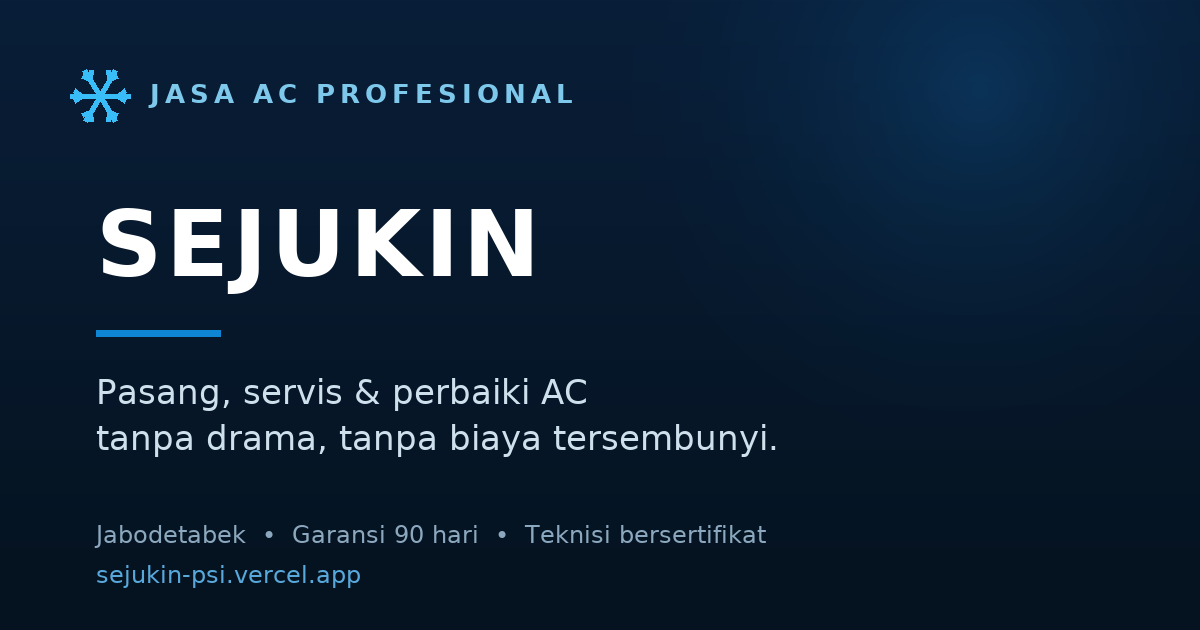
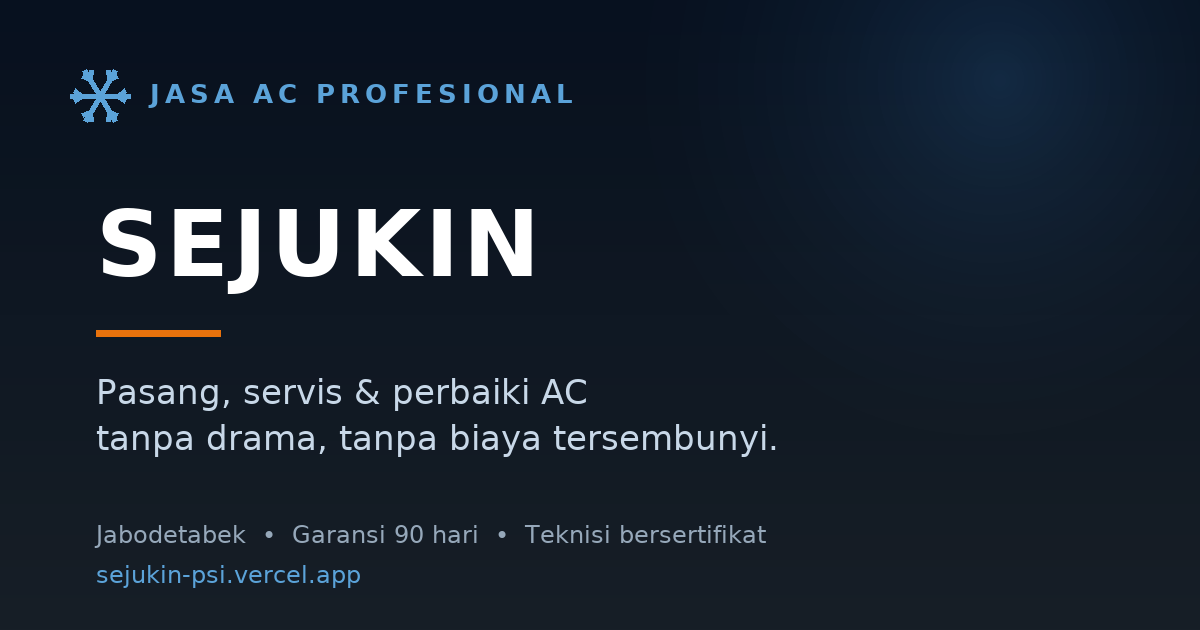
Palet warna mengikuti ARKTIS: clean/arctic/flame/glacier/sky/coal

Changed region(s): [[0.0617, 0.0905, 0.4625, 0.2111], [0.5242, 0.0, 0.8017, 0.1206], [0.0617, 0.5127, 0.185, 0.5429]]

diff --git a/src/index.css b/src/index.css
@@ -1,21 +1,25 @@
 @import "tailwindcss";
 
 @theme {
-  --color-brand-bg: #f0f7fa;
-  --color-brand-primary: #0c2231;
-  --color-brand-navy: #0b2545;
-  --color-brand-ink: #0a1628;
-  --color-brand-secondary: #4a5568;
-  --color-brand-accent: #0e86d4;
-  --color-brand-accent-2: #38bdf8;
-  --color-brand-accent-ink: #0b5c8a;
-  --color-brand-mint: #6dd5c8;
-  --color-hairline: rgb(15 30 45 / 0.1);
+  /* Palet ARKTIS HOME SERVICE */
+  --color-brand-bg: #f8fafb; /* clean   — latar halaman */
+  --color-brand-primary: #0a1628; /* arctic  — teks utama */
+  --color-brand-navy: #1e2832; /* coal    — footer & surface gelap */
+  --color-brand-ink: #0a1628; /* arctic  — headline */
+  --color-brand-secondary: #4a5568; /* slatebody — teks isi */
+  --color-brand-accent: #e8720c; /* flame   — CTA utama */
+  --color-brand-accent-2: #d66408; /* flame gelap — hover & ujung gradient */
+  --color-brand-accent-ink: #2e6da4; /* glacier — eyebrow, tautan */
+  --color-brand-mint: #7bc8c0; /* mint    — aksen dingin */
+  --color-brand-sky: #5ba3d9; /* sky     — aksen dingin terang */
+  --color-brand-ice: #eef6ff; /* ice     — isian lembut */
+  --color-brand-silver: #c8d8e8; /* silver  — garis & pemisah */
+  --color-hairline: rgb(10 22 40 / 0.09);
 
   --font-sans: "Plus Jakarta Sans", system-ui, sans-serif;
   --font-display: "Plus Jakarta Sans", system-ui, sans-serif;
 
-  --shadow-soft: 0 24px 60px -32px rgb(15 30 45 / 0.35);
+  --shadow-soft: 0 24px 60px -32px rgb(10 22 40 / 0.28);
 
   --animate-aurora-slow: aurora-drift 22s ease-in-out infinite alternate;
   --animate-aurora-slower: aurora-drift 26s ease-in-out infinite alternate-reverse;
@@ -70,7 +74,8 @@ body {
 }
 
 ::selection {
-  background: rgb(14 134 212 / 0.2);
+  background: var(--color-brand-sky);
+  color: #fff;
 }
 
 /* ---------- Typography scale ---------- */
@@ -159,7 +164,7 @@ body {
   background-image: linear-gradient(
     to right,
     var(--color-brand-accent-ink),
-    var(--color-brand-accent)
+    var(--color-brand-sky)
   );
 }
 
@@ -192,8 +197,8 @@ body {
   @apply rounded-[28px] p-[1px] shadow-soft;
   background-image: linear-gradient(
     135deg,
-    var(--color-brand-accent),
-    var(--color-brand-accent-2),
+    var(--color-brand-accent-ink),
+    var(--color-brand-sky),
     var(--color-brand-mint)
   );
 }
@@ -273,9 +278,13 @@ body {
   background: transparent;
 }
 ::-webkit-scrollbar-thumb {
-  background: rgb(15 30 45 / 0.18);
-  border-radius: 999px;
+  background: var(--color-brand-silver);
+  border-radius: 8px;
   border: 2px solid var(--color-brand-bg);
+}
+
+::-webkit-scrollbar-thumb:hover {
+  background: var(--color-brand-accent-ink);
 }
 
 /* ---------- Backdrop-filter graceful fallback ---------- */

diff --git a/src/components/Footer.jsx b/src/components/Footer.jsx
@@ -97,7 +97,7 @@ function SocialButton({ social }) {
       target="_blank"
       rel="noopener noreferrer"
       aria-label={social.label}
-      className="focus-ring grid h-10 w-10 place-items-center rounded-full border border-white/10 text-white/60 transition-all duration-300 hover:-translate-y-0.5 hover:border-brand-accent-2/50 hover:bg-white/5 hover:text-white"
+      className="focus-ring grid h-10 w-10 place-items-center rounded-full border border-white/10 text-white/60 transition-all duration-300 hover:-translate-y-0.5 hover:border-brand-sky/50 hover:bg-white/5 hover:text-white"
     >
       {socialIcon(social.icon)}
     </a>
@@ -145,9 +145,9 @@ export default function Footer() {
               aria-label="Sejukin — kembali ke beranda"
             >
               <Snowflake
-                className="h-8 w-8 text-brand-accent-2"
+                className="h-8 w-8 text-brand-sky"
                 strokeWidth={2}
-                fill="rgba(56, 189, 248, 0.2)"
+                fill="rgba(91, 163, 217, 0.2)"
               />
               <span className="font-display text-xl font-bold tracking-wide text-white">
                 SEJUKIN
@@ -163,7 +163,7 @@ export default function Footer() {
             </p>
 
             <p className="mt-5 flex items-start gap-2 text-[12.5px] font-semibold text-white/45">
-              <MapPin className="mt-0.5 h-3.5 w-3.5 shrink-0 text-brand-accent-2" />
+              <MapPin className="mt-0.5 h-3.5 w-3.5 shrink-0 text-brand-sky" />
               {company.serviceArea}
             </p>
 
@@ -291,7 +291,7 @@ export default function Footer() {
       <button
         type="button"
         onClick={() => window.scrollTo({ top: 0, behavior: "smooth" })}
-        className="focus-ring group absolute top-8 right-6 grid h-11 w-11 place-items-center rounded-full border border-white/10 text-white/50 transition-all duration-300 hover:border-brand-accent-2 hover:bg-brand-accent-2 hover:text-white md:right-10"
+        className="focus-ring group absolute top-8 right-6 grid h-11 w-11 place-items-center rounded-full border border-white/10 text-white/50 transition-all duration-300 hover:border-brand-accent hover:bg-brand-accent hover:text-white md:right-10"
         aria-label="Kembali ke atas"
       >
         <ArrowUpRight className="h-4.5 w-4.5 transition-transform duration-300 group-hover:rotate-45" />

diff --git a/src/layouts/MainLayout.jsx b/src/layouts/MainLayout.jsx
@@ -10,9 +10,9 @@ function Aurora() {
       aria-hidden="true"
       className="pointer-events-none fixed inset-0 -z-10 overflow-hidden"
     >
-      <div className="aurora-blob animate-aurora-slow absolute -top-32 -left-24 h-[42rem] w-[42rem] rounded-full bg-brand-accent opacity-30 blur-[90px]" />
-      <div className="aurora-blob animate-aurora-slower absolute top-1/3 -right-40 h-[38rem] w-[38rem] rounded-full bg-brand-accent-2 opacity-25 blur-[90px]" />
-      <div className="aurora-blob animate-aurora-mid absolute -bottom-40 left-1/4 h-[36rem] w-[36rem] rounded-full bg-brand-mint opacity-30 blur-[90px]" />
+      <div className="aurora-blob animate-aurora-slow absolute -top-32 -left-24 h-[42rem] w-[42rem] rounded-full bg-brand-sky opacity-20 blur-[90px]" />
+      <div className="aurora-blob animate-aurora-slower absolute top-1/3 -right-40 h-[38rem] w-[38rem] rounded-full bg-brand-accent-ink opacity-16 blur-[90px]" />
+      <div className="aurora-blob animate-aurora-mid absolute -bottom-40 left-1/4 h-[36rem] w-[36rem] rounded-full bg-brand-mint opacity-20 blur-[90px]" />
     </div>
   );
 }

diff --git a/src/components/HeroContent.jsx b/src/components/HeroContent.jsx
@@ -32,7 +32,7 @@ export default function HeroContent() {
         <motion.div whileHover={{ y: -2 }} whileTap={{ scale: 0.98 }}>
           <Link
             to="/projects"
-            className="focus-ring inline-flex items-center gap-2 rounded-full border border-gray-200 bg-white/80 px-8 py-4 font-semibold text-brand-primary backdrop-blur-md transition-colors hover:bg-white"
+            className="focus-ring inline-flex items-center gap-2 rounded-full border border-brand-accent-ink/40 bg-white/85 px-8 py-4 font-semibold text-brand-accent-ink backdrop-blur-md transition-colors hover:border-brand-accent-ink hover:bg-brand-ice"
           >
             Lihat Portofolio Proyek
           </Link>

diff --git a/src/components/ExperienceTimeline.jsx b/src/components/ExperienceTimeline.jsx
@@ -6,7 +6,7 @@ export default function ExperienceTimeline() {
     <div className="relative">
       <div
         aria-hidden="true"
-        className="absolute top-2 bottom-2 left-[13px] w-px bg-gradient-to-b from-brand-accent via-brand-accent-2 to-brand-mint sm:left-[15px]"
+        className="absolute top-2 bottom-2 left-[13px] w-px bg-gradient-to-b from-brand-accent-ink via-brand-sky to-brand-mint sm:left-[15px]"
       />
       <div className="space-y-8">
         {milestones.map((milestone, index) => (

diff --git a/src/components/Header.jsx b/src/components/Header.jsx
@@ -59,9 +59,9 @@ export default function Header() {
             aria-label="Sejukin — kembali ke beranda"
           >
             <Snowflake
-              className="h-8 w-8 text-brand-accent"
+              className="h-8 w-8 text-brand-accent-ink"
               strokeWidth={2}
-              fill="rgba(14, 134, 212, 0.2)"
+              fill="rgba(91, 163, 217, 0.22)"
             />
             <span className="font-display text-2xl font-bold tracking-wide text-brand-primary">
               SEJUKIN

diff --git a/index.html b/index.html
@@ -12,7 +12,7 @@
       name="keywords"
       content="jasa AC, servis AC, pasang AC, cuci AC, isi freon, Jabodetabek, Sejukin"
     />
-    <meta name="theme-color" content="#F0F7FA" />
+    <meta name="theme-color" content="#f8fafb" />
     <link rel="canonical" href="https://sejukin-psi.vercel.app/" />
 
     <!-- Open Graph / kartu share (WhatsApp, Facebook, LinkedIn) -->

diff --git a/README.md b/README.md
@@ -97,7 +97,6 @@ tracking, dan warna headline tidak lagi ditulis ulang di tiap komponen.
 
 - Font: **Plus Jakarta Sans** untuk headline & teks isi (mengikuti referensi ARKTIS Home Service).
   Headline weight 800 dengan tracking −0.024em s.d. −0.032em.
-- Warna teks: headline `brand-ink #14212B`, sub-headline & isi `brand-secondary #4A5C69`
   (kontras 15.1:1 dan 6.4:1 di atas `brand-bg`, lolos WCAG AA/AAA).
 - Label aksen kecil memakai `brand-accent-ink #0B5C8A` (6.7:1); `brand-accent #0E86D4`
   hanya untuk isian/gradasi karena terlalu terang untuk teks kecil.
@@ -105,7 +104,24 @@ tracking, dan warna headline tidak lagi ditulis ulang di tiap komponen.
 
 ## Catatan Desain
 
-- Palet: `brand-bg #F0F7FA`, headline `#14212B`, teks isi `#4A5C69`, footer `brand-navy #0B2545`, aksen gradasi `#0B5C8A → #0E86D4`, mint `#6DD5C8`.
+- Palet mengikuti referensi **ARKTIS HOME SERVICE** (definisi di `@theme` `src/index.css`):
+  | Token | Hex | Peran |
+  |---|---|---|
+  | `brand-bg` | `#F8FAFB` (clean) | latar halaman |
+  | `brand-ink` / `brand-primary` | `#0A1628` (arctic) | headline & teks utama |
+  | `brand-secondary` | `#4A5568` (slatebody) | sub-headline & teks isi |
+  | `brand-accent` | `#E8720C` (flame) | CTA utama, fokus, aksen hangat |
+  | `brand-accent-2` | `#D66408` (flame gelap) | hover & ujung gradient CTA |
+  | `brand-accent-ink` | `#2E6DA4` (glacier) | eyebrow, tautan, aksen struktural |
+  | `brand-sky` | `#5BA3D9` (sky) | aksen dingin terang, logo footer |
+  | `brand-mint` | `#7BC8C0` (mint) | aksen dingin, ikon kontak |
+  | `brand-ice` | `#EEF6FF` (ice) | isian lembut |
+  | `brand-silver` | `#C8D8E8` (silver) | scrollbar, pemisah |
+  | `brand-navy` | `#1E2832` (coal) | footer & permukaan gelap |
+
+  Kontras: arctic/clean 17.3:1, slatebody/clean 7.2:1, glacier/clean 5.2:1, sky/coal 5.5:1.
+  Catatan: teks putih di atas flame = 3.1:1 (sama seperti referensi ARKTIS) — cukup untuk teks besar,
+  di bawah ambang AA untuk teks kecil. Ganti ke `text-brand-ink` bila butuh AA penuh.
 - Kartu memakai glassmorphism (`bg-white/60 backdrop-blur-xl border-hairline`) dan radius `28px`.
 - Aurora background bergerak lambat di luar hero dan otomatis berhenti saat `prefers-reduced-motion` aktif.
 - Timeline GSAP hero memiliki safety timeout agar konten tidak pernah tertinggal dalam keadaan tersembunyi.
